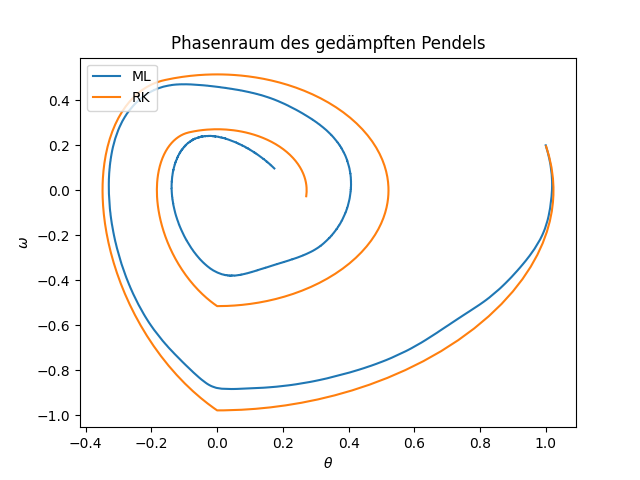
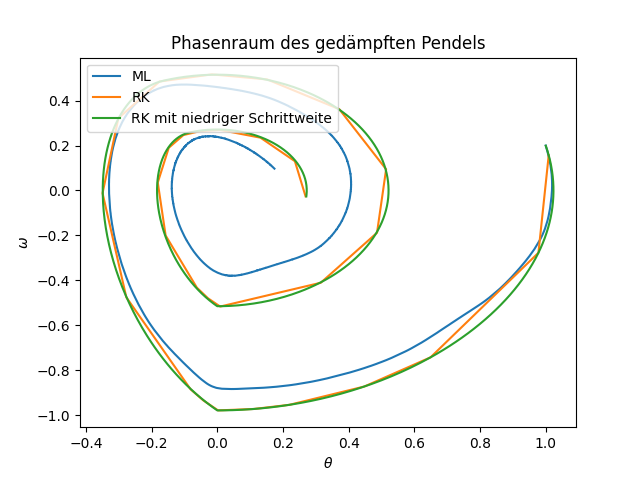
fixes in chapter 5

diff --git a/sections/anwendungsbeispiele.tex b/sections/anwendungsbeispiele.tex
@@ -12,19 +12,20 @@ Fehler des numerischen Verfahrens $\left\lVert x(t_i) - u_i \right\rVert_2$ mit 
 $\left\lVert \hat{x}(t) - x(t) \right\rVert_2$ in Abhängigkeit der Zeit $t_i=t_0 + ih$ und $t\in D$ vergleichen. Dabei
 ist zu beachten, dass eine exakte Lösung $x$ vorliegen muss. In dem Abschnitt \ref{subsec:rebound-Pendel} ist das
 analytische Berechnen der Lösung aufwendig, weshalb es nicht möglich ist, die globalen Fehler zu vergleichen. Deshalb
-werden wir die \textit{Residuen} $0 = u_i^{\prime} - f(t_i,u_i)$ und $0 = u_i^{\prime}- f(t,\hat{x})$
-vergleichen, wobei die Ableitung $u_i^{\prime}$ mithilfe der sogenannten \textit{Differenzenquotienten} ermittelt wird.
-Der Vorwärtsdifferenzenquotient ist definiert durch
-\[
-       u_i^{\prime} \approx \frac{u_{i+1}-u_i}{h_i}.
-\]
-Diese Definition findet sich in \cite[177]{peterdeuflhardfolkmarbornemannNumerischeMathematikGewohnliche} wieder.
+werden wir ein Runge-Kutta-Verfahren mit sehr kleiner Schrittweite zum Vergleich verwenden, da Einschrittverfahren für
+$h \rightarrow 0$ konvergieren. Hierbei betrachten wir sowohl die Trajektorien, als auch den Graph der ersten Komponente
+der berechneten Lösung in Abhängigkeit der Zeit.
 Zuletzt geben wir die Kostenfunktion der neuronalen Netze in Abhängigkeit der Epochen und, wenn möglich, den globalen
-Fehler für alle Zeitwerte in Abhängigkeit der Epochen an. Für das 4-5-Runge-Kutta-Verfahren verwenden wir die Bibliothek
-$scipy.integrate$, genauer die Funktion $scipy.integrate.RK45$ (Dokumentation siehe \cite{ScipyIntegrateRK45}). Die
-Berechnungen wurden mit einem AMD Ryzen 7 5800X CPU, 32GB RAM und einer NVIDIA RTX 3060 Ti GPU durchgeführt. Der
-Quellcode zur Lösung der folgenden Anfangswertproblemen mit numerischen Verfahren und die Implementierung der neuronalen
-Netze befindet sich in dem beigelegtem Datenträger.
+Fehler für das gesamte Zeitintervall in Abhängigkeit der Epochen an. Dabei wenden wir den sogenannten
+\textit{gleitenden Mittelwert} an, um die Oszillation der beiden Graphen durch die Varianzen der Batches, zu
+minimieren. Dabei sind sprunghafte Änderungen der Kostenfunktion und des Fehlers gemeint, die entstehen, sobald neue
+Zufallszahlen gewählt werden und das Netzwerk noch nicht angepasst wurde. Hierzu verwenden wir die Funktion
+\textit{pandas.DataFrame.mean} der Bibliothek \textit{pandas}. Die Dokumentation dieser Funktion findet sich in
+\cite{PandasDataFrameMean}. Für das 4-5-Runge-Kutta-Verfahren verwenden wir die Bibliothek $scipy.integrate$, genauer
+die Funktion $scipy.integrate.RK45$ (Dokumentation siehe \cite{ScipyIntegrateRK45}). Die Berechnungen wurden mit einem
+AMD Ryzen 7 5800X CPU, 32GB RAM und einer NVIDIA RTX 3060 Ti GPU durchgeführt. Der Quellcode zur Lösung der folgenden
+Anfangswertproblemen mit numerischen Verfahren und die Implementierung der neuronalen Netze befindet sich in dem
+beigelegtem Datenträger.
 
 \subsection{Rebound-Pendel}
 \label{subsec:rebound-Pendel}
@@ -84,7 +85,7 @@ Runge-Kutta-Verfahren $k=3$ und $c=1$.
               Gradientenverfahren & Adam \\
               Gewichtsfunktion & $b(t)=e^{-0.5t}$ \\
               Batchsize & $|B|=10000$ \\
-              Epochen & $1000000$ \\
+              Epochen & $100000$ \\
               Lernrate & $\eta= 0.0001$ \\
               Gewichtsinitialisierung & Xavier-Initialisierung \\
               \hline
@@ -385,7 +386,7 @@ Trajektorie der exakten Lösung liegt. Des Weiteren sieht man am globalen Fehler
 \ref{fig:harmonic-neurons-variable-error}, dass dieser die maximale Größenordnung $10^0$ besitzt.
 \begin{figure}
        \centering
-       \includegraphics[scale=0.9]{harmonicoscillator_plots/harmonicoscillatorML_error__neurons_var_loss}
+       \includegraphics[scale=0.9]{harmonicoscillator_plots/harmonicoscillatorML_error__neurons_var_avrloss}
        \caption{Kostenfunktion der verschiedenen neuronalen Netze.}
        \label{fig:harmonic-neurons-variable-loss}
 \end{figure}
@@ -394,6 +395,12 @@ Trajektorie der exakten Lösung liegt. Des Weiteren sieht man am globalen Fehler
        \includegraphics[scale=0.9]{harmonicoscillator_plots/harmonicoscillatorML_error__neurons_var_error}
        \caption{Globaler Fehler der verschiedenen neuronalen Netze.}
        \label{fig:harmonic-neurons-variable-error}
+\end{figure}
+\begin{figure}
+       \centering
+       \includegraphics[scale=0.9]{harmonicoscillator_plots/harmonicoscillatorError_in_time_neurons_var}
+       \caption{Globaler Fehler von Netzwerk 4 und dem Runge-Kutta-Verfahren in Abhängigkeit der Zeit.}
+       \label{fig:harmonic-neurons-variable-error-in-time}
 \end{figure}
 \begin{figure}
        \centering
@@ -462,7 +469,7 @@ wobei die Trajektorien und auch der $(t_i,u_i)$-Graph der Lösung $u_i$ des Rung
 der exakten Lösung liegen.
 \begin{figure}
        \centering
-       \includegraphics[scale=0.9]{harmonicoscillator_plots/harmonicoscillatorML_error__layers_var_loss}
+       \includegraphics[scale=0.9]{harmonicoscillator_plots/harmonicoscillatorML_error__layers_var_avrloss}
        \caption{Kostenfunktion der verschiedenen neuronalen Netze.}
        \label{fig:harmonic-layers-variable-loss}
 \end{figure}
@@ -471,6 +478,12 @@ der exakten Lösung liegen.
        \includegraphics[scale=0.9]{harmonicoscillator_plots/harmonicoscillatorML_error__layers_var_error}
        \caption{Globaler Fehler der verschiedenen neuronalen Netze.}
        \label{fig:harmonic-layers-variable-error}
+\end{figure}
+\begin{figure}
+       \centering
+       \includegraphics[scale=0.9]{harmonicoscillator_plots/harmonicoscillatorError_in_time_layers_var}
+       \caption{Globaler Fehler von Netzwerk 2 und dem Runge-Kutta-Verfahren in Abhängigkeit der Zeit.}
+       \label{fig:harmonic-layers-variable-error-in-time}
 \end{figure}
 \begin{figure}
        \centering
